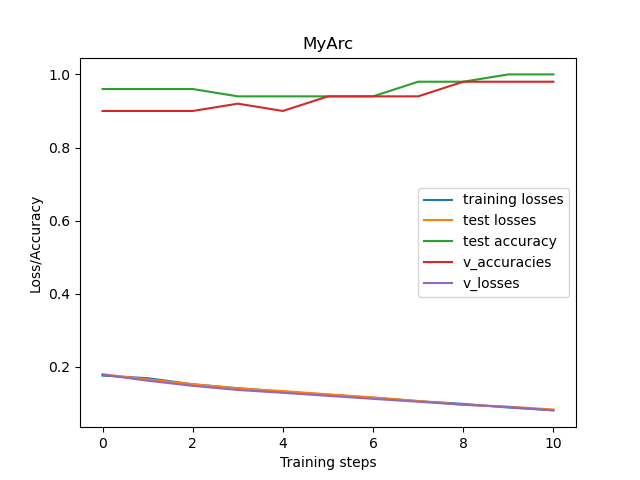
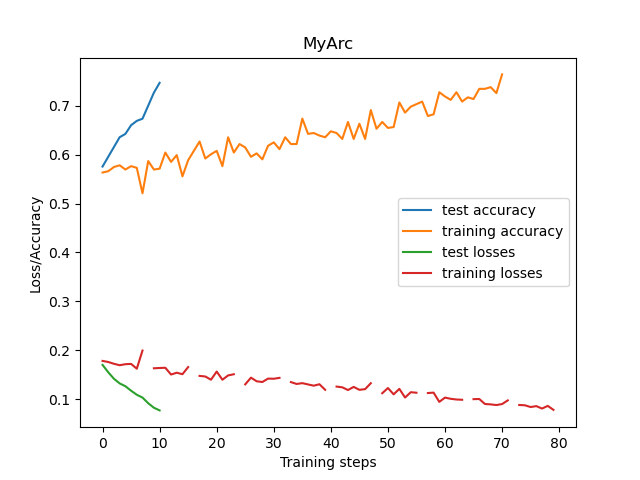
acc reaches about 0.73

diff --git a/model_pkg/Trainer.py b/model_pkg/Trainer.py
@@ -18,7 +18,7 @@ class Trainer():
     ___________________________________________________________
     """
 
-    def __init__(self, arc=None, n_epochs=5, learning_rate=0.01, optimizer_func=Adam):
+    def __init__(self, n_epochs,  arc=None, learning_rate=None, optimizer_func=Adam):
         """Initializes Trainer()-Object
         
         Args:
@@ -48,6 +48,8 @@ class Trainer():
         ]
         
         # for visualization of training
+        # for visualization of training
+        self.train_accuracies = []
         self.test_accuracies = []
         self.test_losses = []
         self.train_losses = []
@@ -66,34 +68,9 @@ class Trainer():
             class neurofuzzyTrainer() 
         """
         self.training_loop(train_ds,  test_ds, validation_ds)
-      #  self.visualize_training(self.df_name, self.arc.Name)
+        self.visualize_training(self.df_name, self.arc.Name)
 
-    def pick_batch(self, ds):
-        """Return one entry from batch 
-        Args:
-            ds (PrefetchDataset): dataset from which to sample from
-        Returns:
-            batch (TensorSliceDataset): a batch from ds
-                                        shapes: ((32, 5), (32, 2)), 
-                                        types: (tf.float32, tf.float32)
-        Note:
-            had to work around bc cannot iterate 'for batch in batches'
-        """
 
-        max = ds.cardinality().numpy()
-    
-       # randI = np.random.randint(0, high=max)
-        randI = tf.random.uniform(shape=[], minval=0, maxval=max, dtype=tf.int64)
-        print("max", max)
-        print("rand", randI)
-        
-        i = 0
-        for input,target in ds:
-            if i == randI:
-                # return current batch
-                batch = tf.data.Dataset.from_tensor_slices(([input],[target]))
-                return batch
-            i += 1
 
 
     def training_loop(self, train_ds_og, test_ds_og, validation_ds_og):
@@ -103,9 +80,12 @@ class Trainer():
             test_ds (PrefetchDataset): dataset for testing
         """
         # picking random batch from dataset
-        test_ds = self.pick_batch(test_ds_og)
-        train_ds =  self.pick_batch(train_ds_og)
-        validation_ds = self.pick_batch(validation_ds_og)
+        test_ds =  test_ds_og
+        train_ds = train_ds_og
+        validation_ds = validation_ds_og
+        # test_ds = self.pick_batch(test_ds_og)
+        # train_ds =  self.pick_batch(train_ds_og)
+        # validation_ds = self.pick_batch(validation_ds_og)
 
         # run model on test_ds to keep track of progress during training
         test_loss, test_accuracy = self.test(test_ds)
@@ -113,13 +93,14 @@ class Trainer():
         self.test_accuracies.append(test_accuracy)
 
         # same thing for train_ds
-        train_loss, _ = self.test(train_ds)
+        train_loss, train_acc = self.test(train_ds)
         self.train_losses.append(train_loss)
+        self.train_accuracies.append(train_acc)
 
         # same thing for validation ds
-        validation_ds_loss, validation_ds_accuracy = self.test(validation_ds)
-        self.v_losses.append(validation_ds_loss)
-        self.v_accuracies.append(validation_ds_accuracy)
+        # validation_ds_loss, validation_ds_accuracy = self.test(validation_ds)
+        # self.v_losses.append(validation_ds_loss)
+        # self.v_accuracies.append(validation_ds_accuracy)
        
         # training loop until self.iters 
         for epoch in range(self.n_epochs):
@@ -129,14 +110,15 @@ class Trainer():
             train loss {self.train_losses[-1]}')
 
             # in each epoch, pick a random batch
-            test_ds =  self.pick_batch(test_ds_og)
-            train_ds =  self.pick_batch(train_ds_og)
+            # test_ds =  self.pick_batch(test_ds_og)
+            # train_ds =  self.pick_batch(train_ds_og)
 
             # train and keep track
             epoch_loss_agg = []
             for input,target in train_ds:
-                train_loss = self.train_step(input, target)
-                epoch_loss_agg.append(train_loss)
+                train_loss, train_acc = self.train_step(input,target)
+                self.train_accuracies.append(train_acc)
+                self.train_losses.append(train_loss)
 
             #track training loss
             self.train_losses.append(tf.reduce_mean(epoch_loss_agg))
@@ -270,15 +252,18 @@ class Trainer():
             type_model (str): type of model that has been trained
         """
         plt.figure()
-        line1, = plt.plot(self.train_losses)
-        line2, = plt.plot(self.test_losses)
-        line3, = plt.plot(self.test_accuracies)
-        line4, = plt.plot(self.v_accuracies)
-        line5, = plt.plot(self.v_losses)
+        # accuracies
+        line1, = plt.plot(self.test_accuracies)
+        line2, = plt.plot(self.train_accuracies)
+       # line3, = plt.plot(self.val_accuracies)
+        # losses
+        line4, = plt.plot(self.test_losses)
+        line5, = plt.plot(self.train_losses)
+       # line5, = plt.plot(self.v_losses)
         plt.xlabel("Training steps")
         plt.ylabel("Loss/Accuracy")
-        plt.legend((line1, line2, line3, line4, line5),
-        ("training losses", "test losses", "test accuracy", "v_accuracies", "v_losses"))
+        plt.legend((line1, line2, line4, line5),
+        ("test accuracy", "training accuracy", "test losses", "training losses"))
         plt.title(f'{type_model}')
         plt.figure
        
@@ -288,7 +273,6 @@ class Trainer():
         completeName = os.path.join(save_path, file_name)
         plt.savefig(completeName)
         plt.clf()
-
     def summary(self):
         column_names = ['n_epochs', 'learning_rate', 'loss_func', 'optimizer_func']
         d = self.params

diff --git a/neurofuzzy_pkg/utils/MyArcTrainer.py b/neurofuzzy_pkg/utils/MyArcTrainer.py
@@ -51,78 +51,6 @@ class MyArcTrainer(Trainer):
 
 
 
-    def training_loop(self, train_ds_og, test_ds_og, validation_ds_og):
-        """Training of the model
-        Args: 
-            train_ds (PrefetchDataset): dataset for training
-            test_ds (PrefetchDataset): dataset for testing
-        """
-        # picking random batch from dataset
-        # test_ds = self.pick_batch(test_ds_og)
-        # train_ds =  self.pick_batch(train_ds_og)
-        # validation_ds = self.pick_batch(validation_ds_og)
-        test_ds =  test_ds_og
-        train_ds = train_ds_og
-        validation_ds = validation_ds_og
-
-
-        # run model on test_ds to keep track of progress during training
-        test_loss, test_accuracy = self.test(test_ds)
-        self.test_losses.append(test_loss)
-        self.test_accuracies.append(test_accuracy)
-
-        # same thing for train_ds
-        train_loss, _ = self.test(train_ds)
-        self.train_losses.append(train_loss)
-
-        # same thing for validation ds
-        validation_ds_loss, validation_ds_accuracy = self.test(validation_ds)
-        self.v_losses.append(validation_ds_loss)
-        self.v_accuracies.append(validation_ds_accuracy)
-       
-        # training loop until self.iters 
-        for epoch in range(self.n_epochs):
-            print(f'Epoch: {str(epoch)} starting with \n \
-            test accuracy {self.test_accuracies[-1]} \n \
-            test loss {self.test_losses[-1]} \n \
-            train loss {self.train_losses[-1]} \n \
-            validation accuracy {self.v_accuracies[-1]} \n \
-            validation loss {self.v_losses[-1]} ')
-
-
-            # shuffle
-            # train_ds = tf.random.shuffle(train_ds)
-            # test_ds = tf.random.shuffle(test_ds)
-            # validation_ds = tf.random.shuffle(validation_ds)
-
-            # in each epoch, pick a random batch
-            # test_ds =  self.pick_batch(test_ds_og)
-            # train_ds =  self.pick_batch(train_ds_og)
-            # validation_ds = self.pick_batch(validation_ds_og)
-
-            # train and keep track
-            epoch_loss_agg = []
-            for input,target in train_ds:
-                train_loss = self.train_step(input, target)
-                epoch_loss_agg.append(train_loss)
-
-            #track training loss
-            self.train_losses.append(tf.reduce_mean(epoch_loss_agg))
-
-            #testing, so we can track accuracy and test loss
-            test_loss, test_accuracy = self.test(test_ds)
-            self.test_losses.append(test_loss)
-            self.test_accuracies.append(test_accuracy)
-
-            # same thing for validation ds
-            validation_ds_loss, validation_ds_accuracy = self.test(validation_ds)
-            self.v_losses.append(validation_ds_loss)
-            self.v_accuracies.append(validation_ds_accuracy)
-
-        print("Training Loop completed")
-        return 0
-
-
     def test(self, ds):
         """Forward pass of test_data
         Args:
@@ -177,6 +105,7 @@ class MyArcTrainer(Trainer):
         """
 
         train_loss_agg = []
+        accuracy_aggregator = []
 
         ## step 1: calculating gradients for each entry in batch
         # iterating over data entries of a batch
@@ -190,6 +119,10 @@ class MyArcTrainer(Trainer):
             # calculating error in outputlayer
             train_loss_agg.append(self.error_function(prediction, targets))
             errorterm = self.error_function_derived(prediction, targets)
+            # calculating accuracy
+            accuracy = self.accuracy_function(prediction,targets)
+            #accuracy = np.mean(accuracy)
+            accuracy_aggregator.append(accuracy)
             # print("errorterm\n\n")
             # print(errorterm)
             # print("targets\n\n")
@@ -215,7 +148,8 @@ class MyArcTrainer(Trainer):
         ## step 3: adapt the parameters with average gradients
         self.adapt(self.arc.FuzzificationLayer, deltas_avg, centers_derived, widths_der)
         
-        return train_loss
+        acc = np.mean(accuracy_aggregator)
+        return train_loss, acc
 
 
     def error_function(self, prediction, targets):
@@ -340,17 +274,30 @@ class MyArcTrainer(Trainer):
     def accuracy_function(self, prediction, target):
         
         accs = []
+        target = target[0]
+      #  print("tar", targets)
+      #  print("pre", prediction)
+
         for cidx,classweight in enumerate(self.arc.RuleConsequentLayer.weights):
+         #   print("tar", targets.numpy)
             
-            y = prediction[cidx] # in order to slice [:,idx]
-            t = target[cidx]
+           # print("cd", cidx)
+            #print("out", prediction)
+            assigned = False
+          #  tar_row = targets[cidx] # would need to blow up targets to vectoize 
+            out_row = prediction[cidx] # in order to slice [:,idx]
             for idx, number in enumerate(classweight):
                 if bool(number)==True:
-
-                    acc = t[idx] == np.round(y[idx], 0)
+                    #print("idx", idx)
+                   # print("tar",targets[idx]  )
+                   # print("out_row[:,idx]", out_row[idx])
+                    acc = target[idx] == np.round(out_row[idx], 0)
                     accs.append(acc)
-        
-        return acc
+                    assigned = True
+            # if assigned==False:        
+            #     error_term.append(0) # for weights that are 0 0
+       # print("error", error_term)
+        return accs
 
     def adapt(self, layer, gradients, centers_derived, widths_der):
         
